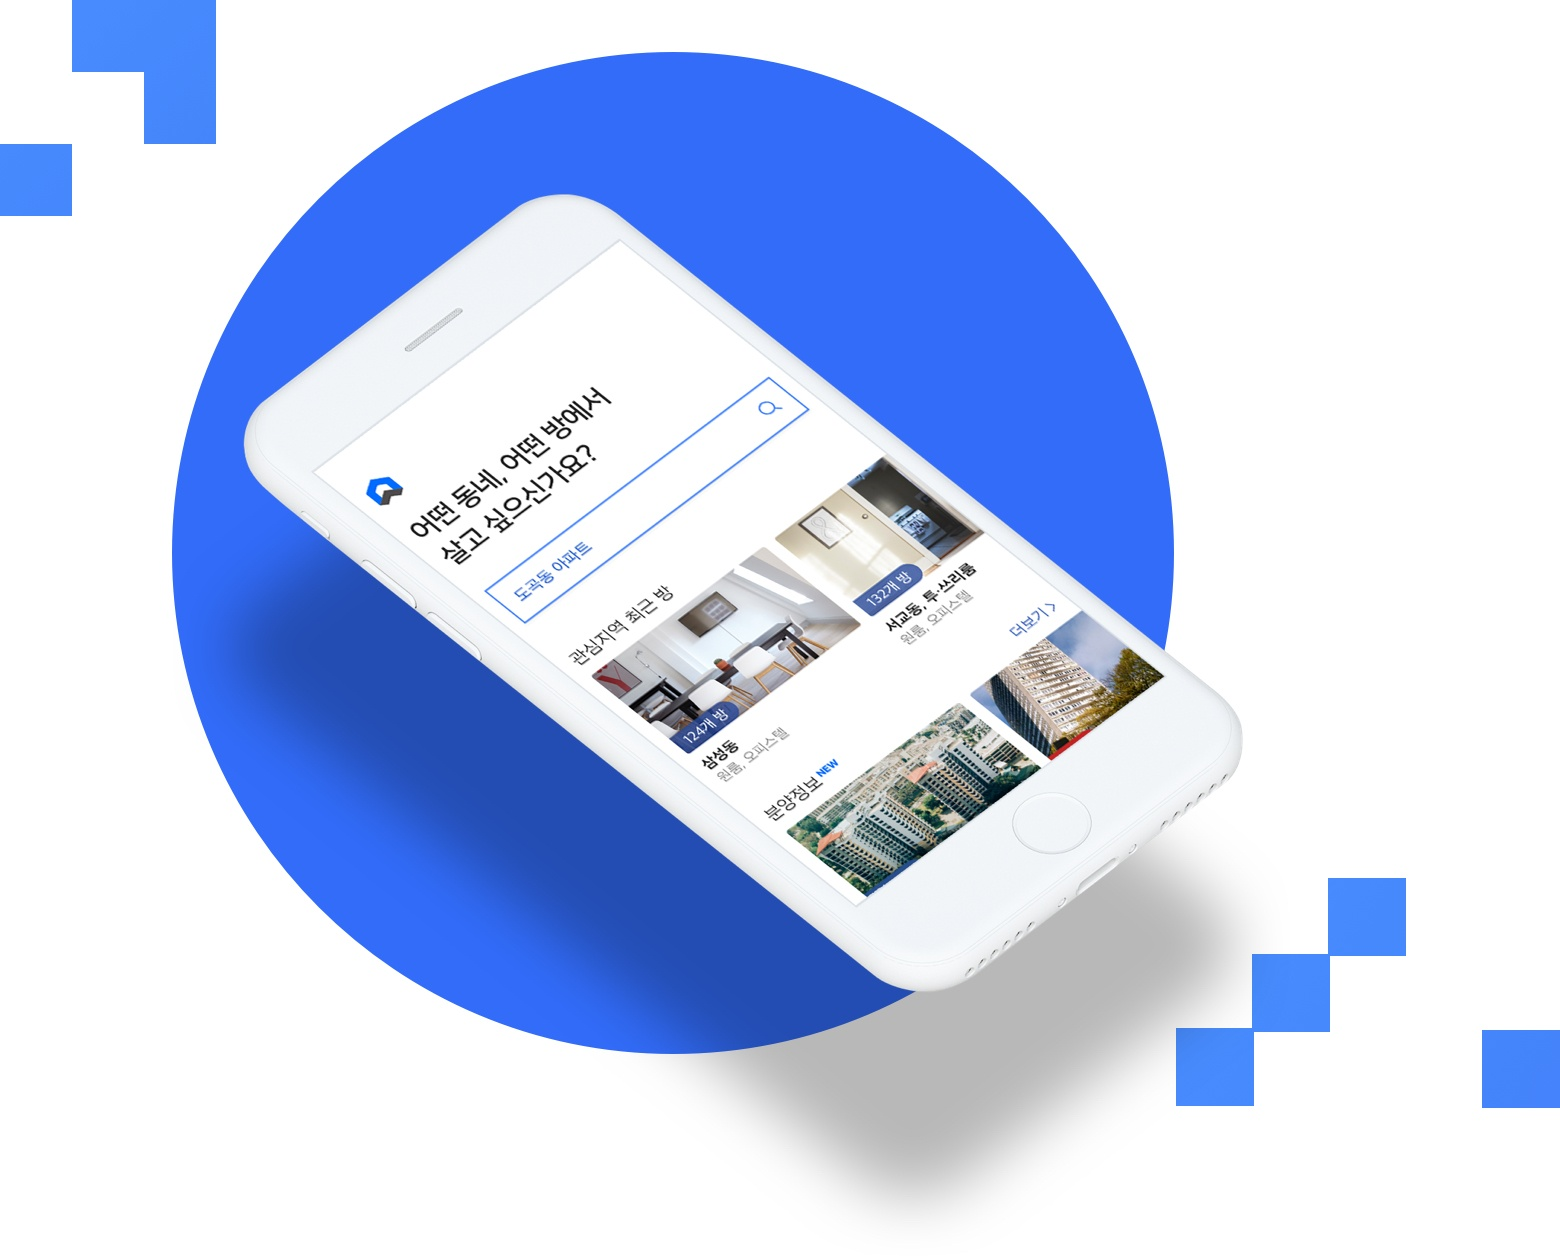
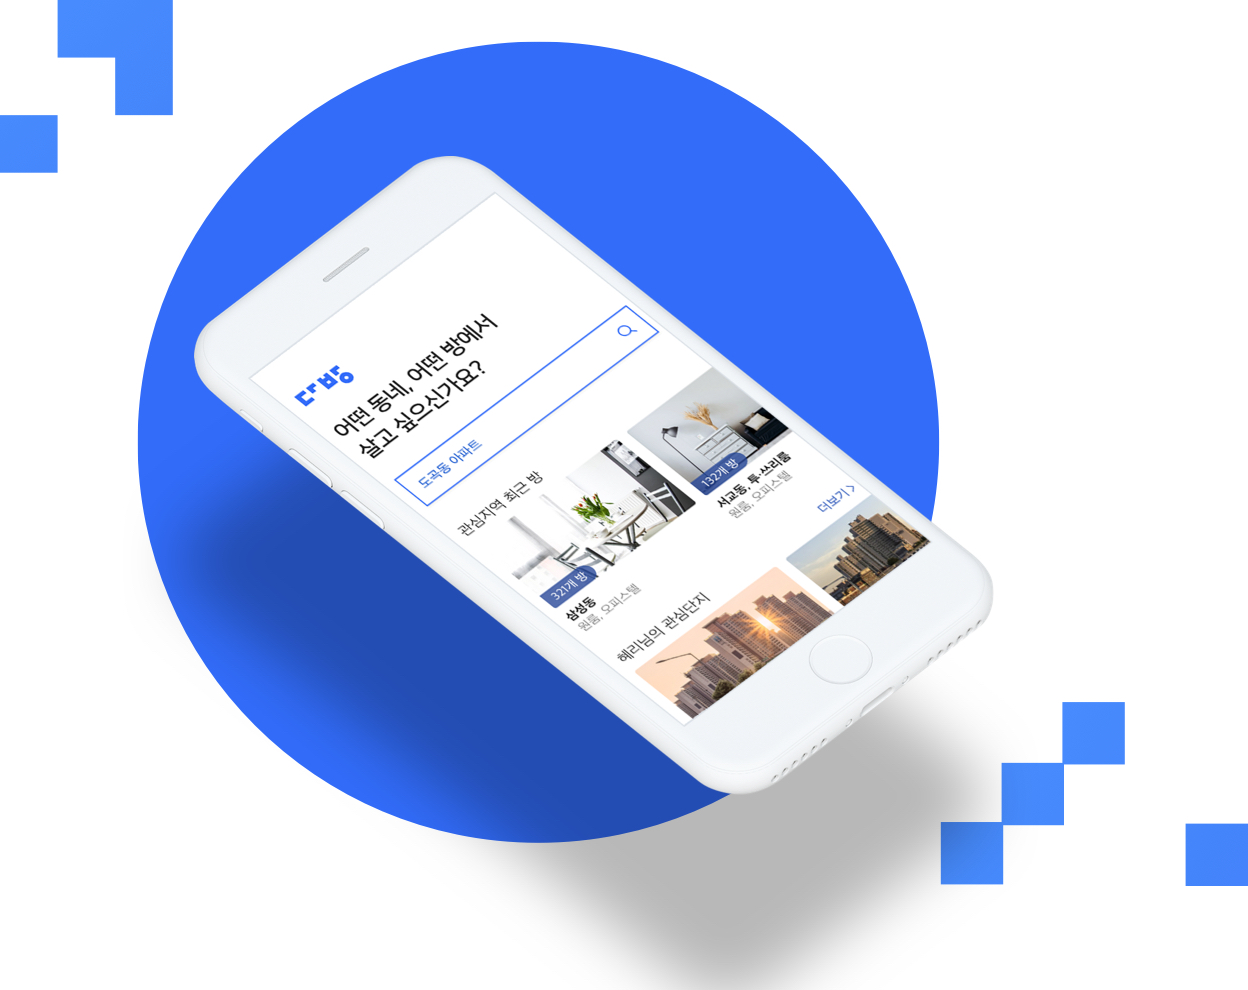
수정, 이미지 변경 필요!

diff --git a/pages/home/Banner/styled.js b/pages/home/Banner/styled.js
@@ -46,40 +46,36 @@ export const Img = styled.div`
   top: 0;
   left: 0;
   z-index: 1;
+  background-position: center center;
+  background-repeat: no-repeat;
+  background-size: cover;
 
   ${media.desk1600`
-    background: url('/static/images/home/banner/1600.jpg') right center no-repeat;
-    background-size: cover;
+    background-image: url('/static/images/home/banner/1600.jpg');
   `}
 
   ${media.desk1400`
-    background: url('/static/images/home/banner/1400.jpg') right center no-repeat;
-    background-size: cover;
+    background-image: url('/static/images/home/banner/1400.jpg');
   `}
 
   ${media.desk1200`
-    background: url('/static/images/home/banner/1200.jpg') right center no-repeat;
-    background-size: cover;
+    background-image: url('/static/images/home/banner/1200.jpg');
   `}
 
   ${media.tabletB`
-    background: url('/static/images/home/banner/1000.jpg') right center no-repeat;
-    background-size: cover;
+    background-image: url('/static/images/home/banner/1000.jpg');
   `}
 
   ${media.tablet`
-    background: url('/static/images/home/banner/640.jpg') right center no-repeat;
-    background-size: cover;
+    background-image: url('/static/images/home/banner/640.jpg');
   `}
 
   ${media.mobile`
-    background: url('/static/images/home/banner/375.jpg') right center no-repeat;
-    background-size: cover;
+    background-image: url('/static/images/home/banner/375.jpg');
   `}
 
   ${media.mobileS`
-    background: url('/static/images/home/banner/320.jpg') right center no-repeat;
-    background-size: cover;
+    background-image: url('/static/images/home/banner/320.jpg');
   `}
 `
 

diff --git a/pages/service/Banner/styled.js b/pages/service/Banner/styled.js
@@ -111,7 +111,8 @@ export const Label = styled.h1`
 `
 
 export const Table = styled.div`
-  background: url('/static/images/service/banner/bg.svg') right center no-repeat;
+  background-position: right center;
+  background-repeat: no-repeat;
   background-size: cover;
   position: absolute;
   top: 0;
@@ -120,14 +121,17 @@ export const Table = styled.div`
   bottom: 0;
 
   ${media.desk1600`
+    background-image: url('/static/images/service/banner/1600.svg');
     padding-left: 21.25%;
   `}
   
   ${media.desk1400`
+    background-image: url('/static/images/service/banner/1600.svg');
     padding-left: 15.7143%;
   `}
   
   ${media.desk1200`
+    background-image: url('/static/images/service/banner/1600.svg');
     padding-left: 15.7143%;
   `}
   
@@ -142,11 +146,13 @@ export const Table = styled.div`
   `}
   
   ${media.mobile`
+    background-image: url('/static/images/service/banner/375.svg');
     padding-top: 54.6269%;
     padding-left: 30px;
   `}
   
   ${media.mobileS`
+    background-image: url('/static/images/service/banner/375.svg');
     padding-top: 56.0345%;
     padding-left: 20px;
   `}
